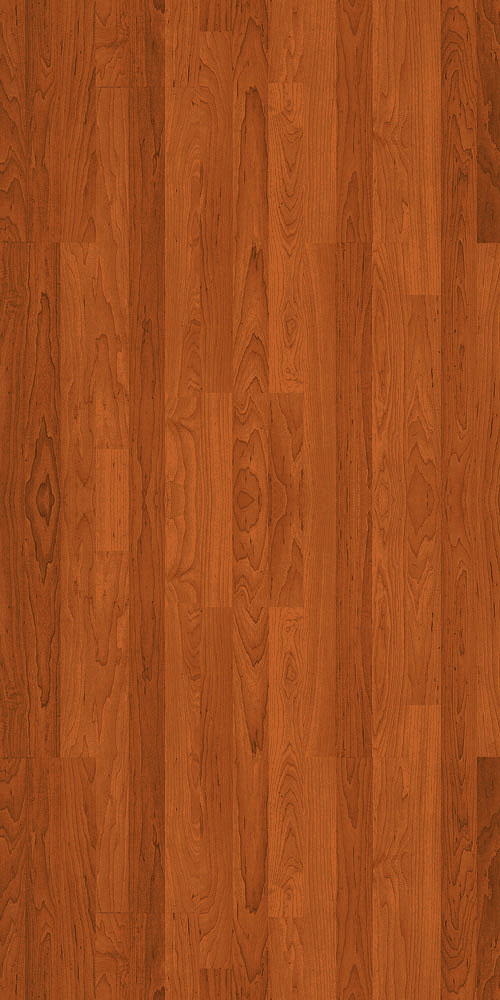
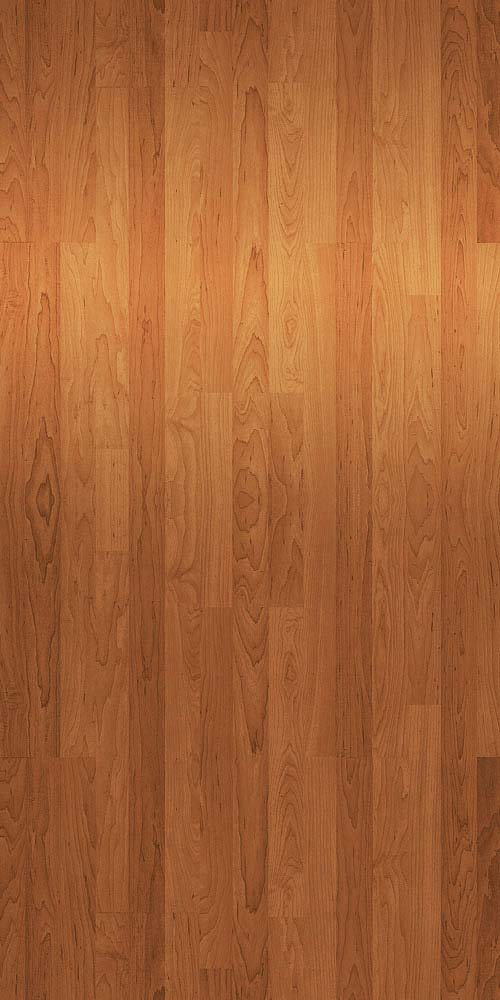
wood texture

diff --git a/exemplo.css b/exemplo.css
@@ -1,5 +1,5 @@
 body {
-	background: #eee url('gallerybackuq4.jpg');
+	background: #eee url('wood2.jpg');
 	padding: 0px 0px;
 	font: 12px sans-serif, Arial, Helvetica;
 }
